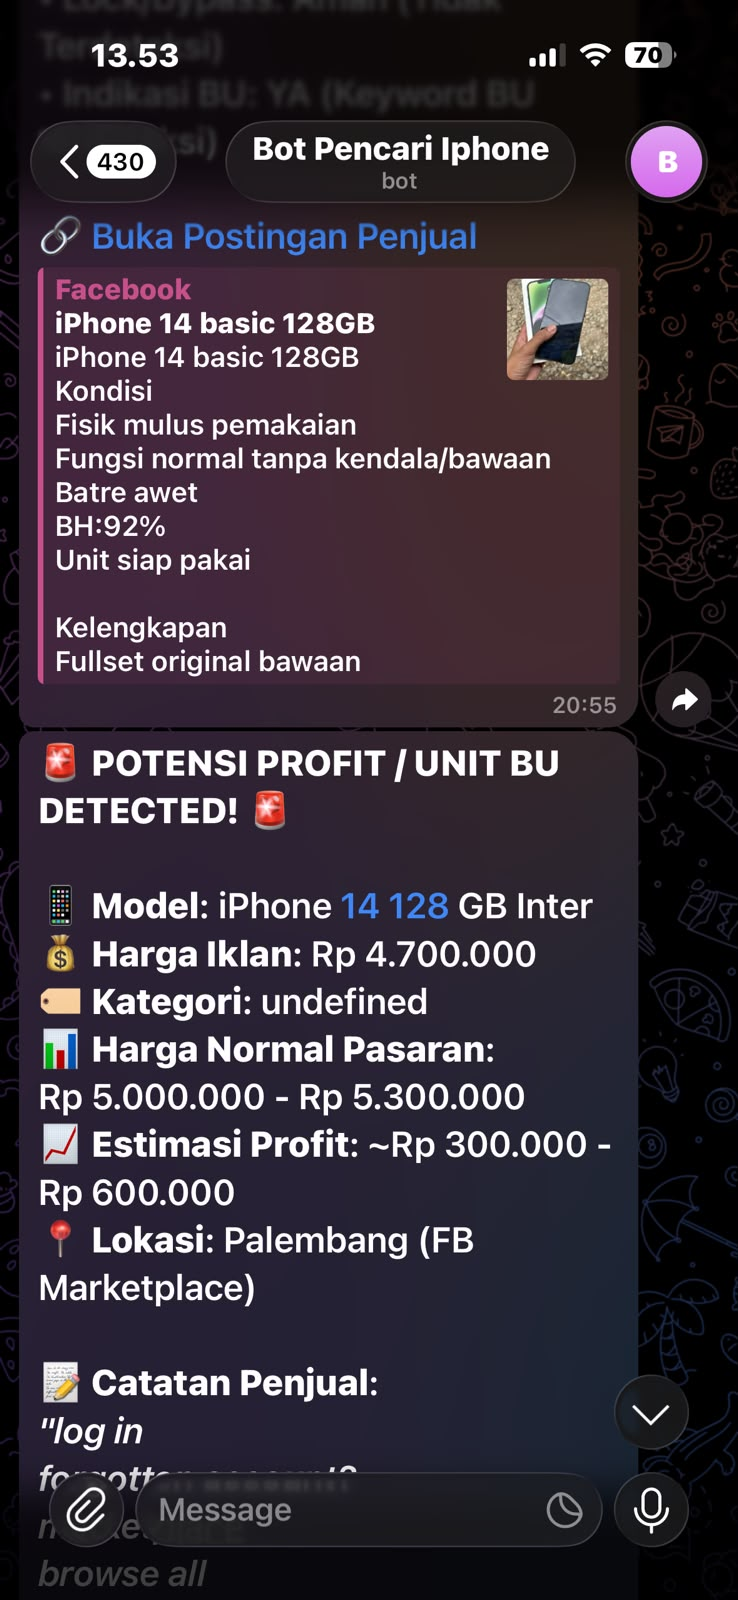
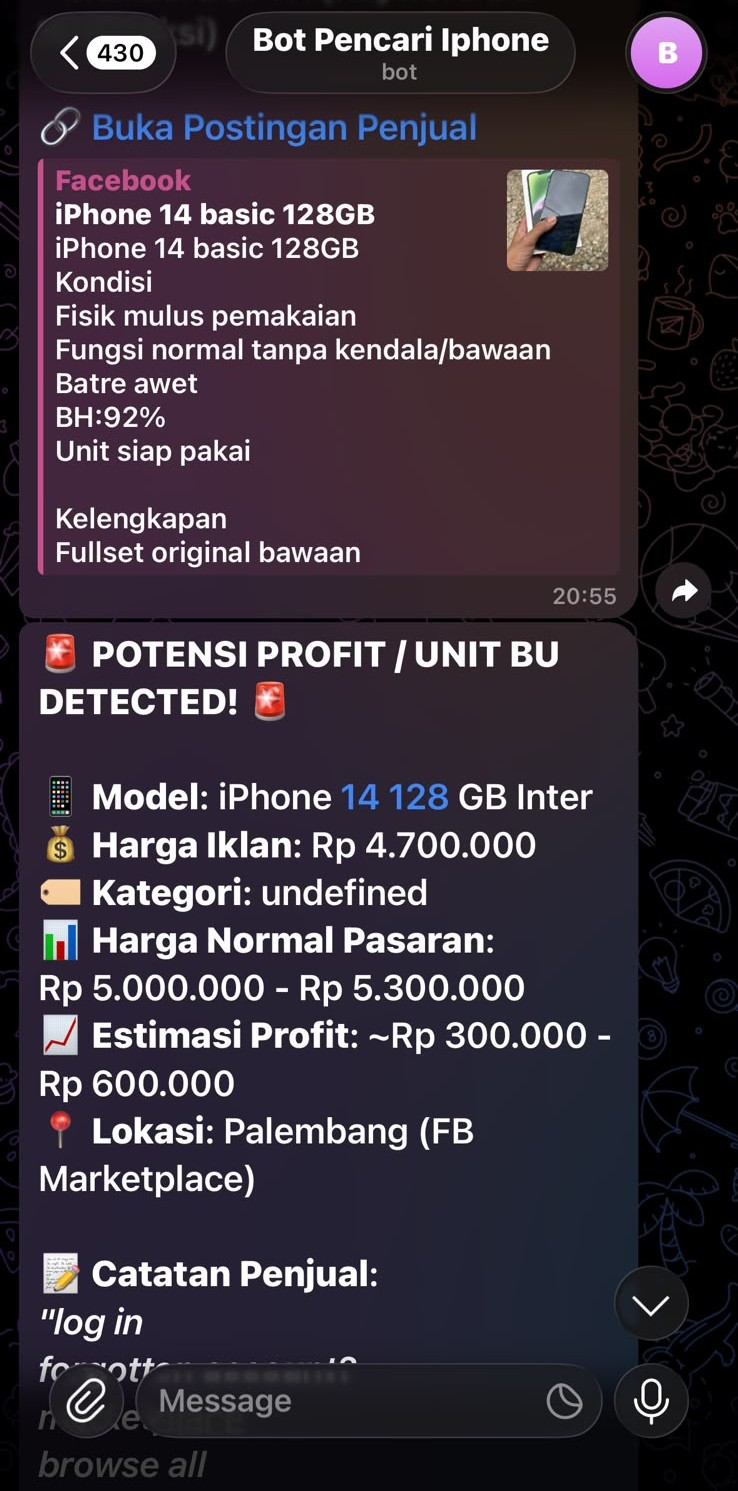
feat: add Smart Deal Finder Bot to projects list and include its associated asset

Changed region(s): [[0.0, 0.0, 1.0, 0.9873], [0.7168, 0.9256, 0.8103, 0.9564]]

diff --git a/src/components/Projects.jsx b/src/components/Projects.jsx
@@ -106,6 +106,14 @@ const projectsData = [
     link: "https://github.com/Fayiz-Akbar/Analisis-dan_Prediksi-Kadar_PM2.5_Harian_Jakarta_dengan_Model_ARIMA" 
   },
   { 
+    id: 23, title: "Smart Deal Finder Bot", categories: ["Bot"], 
+    image: "/image/smartdeal-finder.jpeg", imagePosition: "object-top",
+    tags: ["Node.js", "JS", "Telegram Bot"], 
+    desc: "Sistem otomatisasi pemantau pasar iPhone bekas di Facebook Marketplace, FB Groups, dan OLX berbasis kriteria deal serta filter kelayakan barang secara real-time. Sistem ini dilengkapi Price Normalizer Engine (Regex) untuk memproses variasi penulisan harga, filter anti-scam, penyaring kata kunci minus/bypass, serta Stealth Browser Protocol untuk menghindari pemblokiran akun. Hasil analisa unit murah/BU dikirimkan otomatis ke Telegram lengkap dengan Canonical Clean URL dan sakelar kendali daya pintar (/start, /pause, /scan).", 
+    link: "private",
+    isPrivate: true
+  },
+  { 
     id: 12, title: "Smart Agriculture System", categories: ["Internet of Things", "Web"], 
     image: "/image/iot2.png", 
     tags: ["HTML", "PHP", "IoT"], 
@@ -205,9 +213,10 @@ const tagColors = {
   "Next.js": "bg-slate-900 text-white border border-slate-700",
   "Prisma": "bg-teal-900 text-teal-100 border border-teal-700",
   "Docker": "bg-blue-100 text-blue-800 border border-blue-300",
+  "Telegram Bot": "bg-sky-50 text-sky-500 border border-sky-200",
 };
 
-const categories = ["All", "Web", "AI & ML", "Mobile", "Internet of Things", "Lainnya"];
+const categories = ["All", "Web", "AI & ML", "Mobile", "Internet of Things", "Bot", "Lainnya"];
 
 // --- KOTAK DIGIT ROLL CASINO INDIVIDUAL ---
 const CasinoDigit = ({ digit, delay, textColor }) => {
@@ -553,6 +562,7 @@ const Projects = () => {
       AI: projectsData.filter(p => p.categories[0] === "AI & ML").length,
       Mobile: projectsData.filter(p => p.categories[0] === "Mobile").length,
       IoT: projectsData.filter(p => p.categories[0] === "Internet of Things").length,
+      Bot: projectsData.filter(p => p.categories[0] === "Bot").length,
     };
   }, []);
 
@@ -601,7 +611,7 @@ const Projects = () => {
             whileInView={{ opacity: 1, y: 0 }}
             viewport={{ once: true, margin: "-100px" }}
             transition={{ duration: 0.5, delay: 0.1 }}
-            className="grid grid-cols-2 sm:grid-cols-3 lg:grid-cols-5 gap-4 p-4 bg-slate-50/60 rounded-3xl border border-slate-100 shadow-inner"
+            className="grid grid-cols-2 md:grid-cols-3 lg:grid-cols-6 gap-4 p-4 bg-slate-50/60 rounded-3xl border border-slate-100 shadow-inner"
           >
             <div className="flex flex-col items-center justify-center p-5 bg-white rounded-2xl border border-slate-100 shadow-sm w-full">
               <CasinoNumber value={projectStats.All} textColor="text-blue-600" />
@@ -622,6 +632,10 @@ const Projects = () => {
             <div className="flex flex-col items-center justify-center p-5 bg-white rounded-2xl border border-slate-100 shadow-sm w-full">
               <CasinoNumber value={projectStats.IoT} textColor="text-orange-500" />
               <p className="text-xs font-bold tracking-wider uppercase text-slate-500 font-poppins mt-3">IoT Projects</p>
+            </div>
+            <div className="flex flex-col items-center justify-center p-5 bg-white rounded-2xl border border-slate-100 shadow-sm w-full">
+              <CasinoNumber value={projectStats.Bot} textColor="text-sky-500" />
+              <p className="text-xs font-bold tracking-wider uppercase text-slate-500 font-poppins mt-3">Bots</p>
             </div>
           </motion.div>
         </div>
